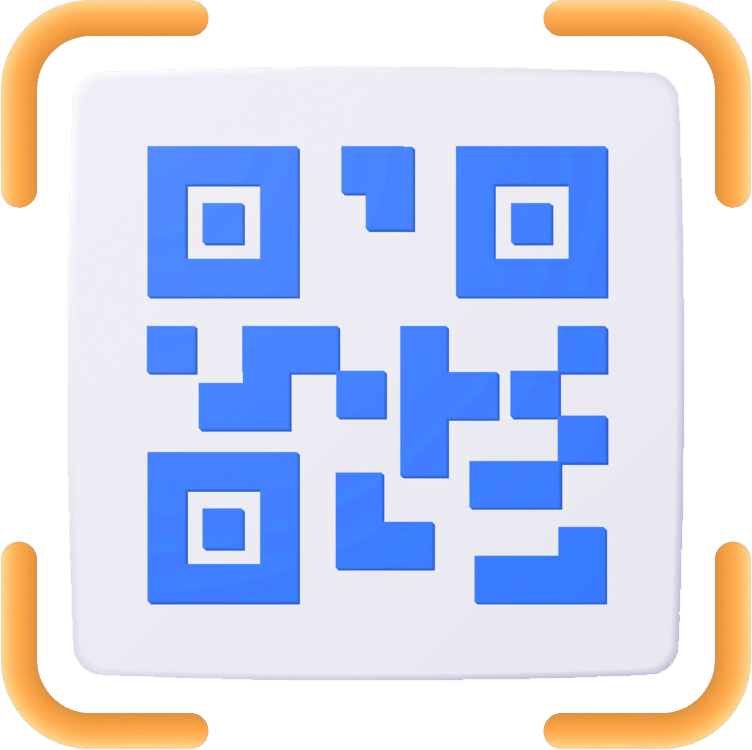
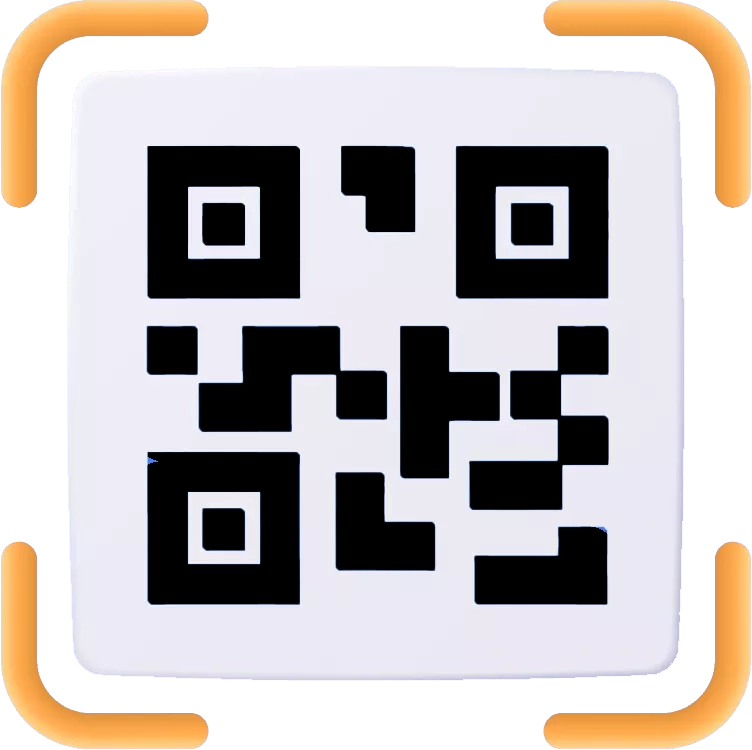
Edicion de Imagenes

diff --git a/src/app/home/home.page.html b/src/app/home/home.page.html
@@ -31,7 +31,7 @@
 <div class="segment" *ngIf="segment === 'scan'">
   <div class="segment-content">
   
-    <img src="assets/images/scan-qr.webp" alt="">
+    <img src="assets/images/scan-qr.png" alt="">
 
     <h6 class="scan-label">Escanea o selecciona una imagen con codigo QR</h6>
   <ion-row>
@@ -85,7 +85,7 @@
     <div class="d-flex-center">
       <div class="d-flex-center qr-wrapper">
         <qr-code *ngIf="qrText" [value]="qrText" size="190" errorCorrectionLevel="M"></qr-code>
-       <img *ngIf="!qrText" class="qr-placeholder" src="assets/images/qr.webp" alt="">
+       <img *ngIf="!qrText" class="qr-placeholder" src="assets/images/qr.png" alt="">
       </div>
 
     </div>
